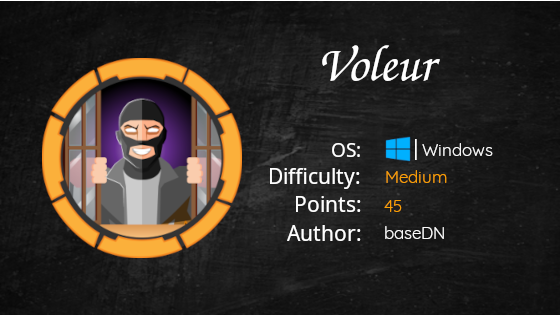
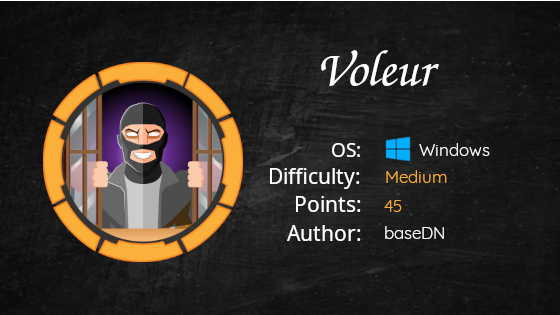
update

diff --git a/_posts/2025-11-14-Certified Red Team Analyst (CRTA) 2025 Review.md b/_posts/2025-11-14-Certified Red Team Analyst (CRTA) 2025 Review.md
@@ -1,0 +1,79 @@
+---
+title: "Certified Red Team Analyst (CRTA) 2025 Review"
+date: 2025-11-14 02:35:00 +0000
+categories: [Certifications]
+tags: [CRTA, CyberWarafareLabs, ActiveDirectory]
+image: /assets/img/certifications/crta/crta_logo.png
+---
+## Introduction
+
+El **Certified Red Team Analyst (CRTA)** de _CyberWarfare Labs_ es una certificación básica e introductoria que te sumerge en el mundo de Active Directory.
+
+Para mí, el CRTA fue mi primera certificación oficial en ciberseguridad. El curso te guía a través de todos los conceptos fundamentales: desde el **acceso inicial** y el **movimiento lateral**, hasta la **escalada de privilegios** y los **ataques al dominio**.
+
+---
+## The Course
+
+El contenido del PDF está bastante bien para lo que cuesta la certificación (**unos $10**). Te enseñan a hacer las cosas desde Windows, con comandos de `Mimikatz` y herramientas nativas, lo cual se agradece. En cuanto a los videos, como ya he dicho no soy de ver mucho contenido en video, pero lo poco que vi se me hizo bastante pesado. Al final no llegué a ver ninguno completo por eso mismo.
+
+**El lab está bien para el precio de $10**. Tiene tres partes principales: web/enumeración, pivoting y la parte de Active Directory. 
+
+Aquí viene lo surrealista: en el writeup que te dan para el laboratorio de práctica... **¡lo hacen todo desde Linux!** Después de todo el curso enseñándote en el PDF cómo hacerlo desde Windows, resulta que las soluciones oficiales usan herramientas de Linux sin haberte enseñado nada sobre ello. Por suerte yo ya tenía una base sólida en AD, así que no fue un problema real para mí. Pero para alguien nuevo debe ser desconcertante. Es como estudiar para ser médico y acabar reparando coches... no tiene sentido. A pesar de esto, el lab es lo mejor de la certificación.
+
+----
+## The Exam
+
+El examen más surrealista que he realizado en mi vida. Cosas sin sentido, enumeración absurda, nada del otro mundo... y cosas tan ilógicas que ni caerías en ellas. 
+
+Pero esto no es todo. La mayor decepción para mí fue que, siendo una certificación que se vende como tu primer paso en AD, el examen resulta ser:
+
+- **90% Web/Enumeración** 
+- **10% AD** (o incluso menos)
+
+![images](/assets/img/certifications/crta/lagrimas-de-macho-homero.gif)
+
+En el laboratorio al menos había algo más de AD y era más complejo. Pero el examen no tiene sentido como certificación de Active Directory. Y por si fuera poco, después de enseñarte todo desde Windows... ¡en el examen tienes que hacerlo desde Linux porque no te proporcionan ningún equipo Windows! 
+
+Pero esto no es lo peor. Lo peor sin duda no es llegar a ser Administrador del dominio... lo peor es contestar las **preguntas de las flags**. Tardas más tiempo en **descifrar qué respuesta buscan que en resolver el lab entero.** Las pistas no te dejan claro el formato o qué es exactamente lo que quieren. Son flags sin sentido que arruinan la experiencia.
+
+![images](/assets/img/certifications/crta/desesperacion.gif)
+
+Tengo conocidos que han suspendido por esto mismo: tenían el laboratorio hecho en menos de 1 hora, pero no pudieron contestar las preguntas porque no se entienden. Y así suspendieron.
+
+Por suerte tienes **2 intentos** para el examen, pero igualmente me parece absurdo que el mayor desafío no sea técnico, sino adivinar qué quieren en las respuestas.
+
+---
+## Tips
+
+De cara al examen, recomendaría revisar los siguientes puntos:
+
+- **[Local File Inclusion](https://blog.nody.cc/posts/container-breakouts-part1/)**
+- **[Misconfiguración de Sudo](https://gtfobins.github.io/)** para escalada de privilegios
+- **[Ataque DCSync](https://iam0xc4t.medium.com/dcsync-attack-gaining-domain-admin-via-active-directory-replication-3280a759cd95)**
+- **[Pass The Hash](https://viperone.gitbook.io/pentest-everything/everything/everything-active-directory/lateral-movement/alternate-authentication-material/wip-pass-the-hash)**
+- **[[Credential Dumping](https://wadcoms.github.io/)]**
+- **[Abuso de ACLs mal configuradas](https://www.thehacker.recipes/ad/movement/dacl/)**
+
+Por otro lado, una serie de tips para el examen:
+
+- **Enumera con calma**: Haz escaneos completos y metódicos
+- **Mentalidad CTF**: En la parte Web/Enumeración, piensa como en un CTF, no como en un escenario realista
+- **Revisa todo**: Examina cada archivo, por muy inofensivo que parezca o por raro que sea su nombre
+- **Con las flags**: Lee las preguntas con atención, enumera repetidamente y prueba diferentes formatos de respuesta hasta que des con el correcto
+
+----
+
+## Conclusión
+
+¿Recomiendo el CRTA? La verdad es que solo por dos razones:
+
+1. **Está muy barata** ($10 en oferta)
+2. **Para tenerla en el CV** y sumar una certificación más
+
+Fuera de eso, no le veo mucho más valor. Si buscas aprender AD de verdad, mejor ve directo al CRTP. Esta certificación promete ser de Active Directory pero al final es 90% web y enumeración, con un toque de AD muy básico.
+
+Eso sí, por el precio... ¿por qué no? Pero no esperes una certificación seria de Active Directory. Es más un "intro a la ciberseguridad" que otra cosa.
+
+![images](/assets/img/certifications/crta/crta_jeremy.png)
+
+> _Happy Hacking :)_
